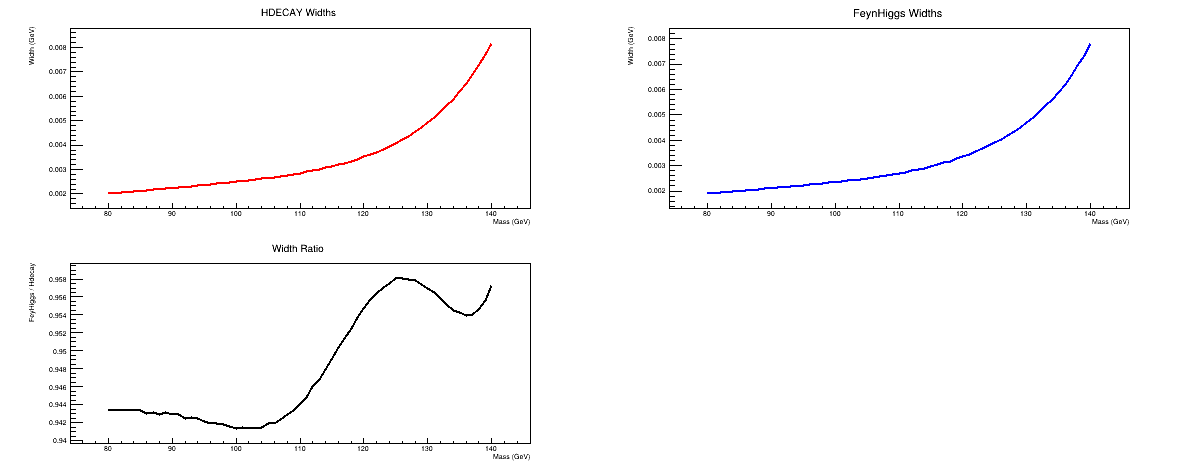
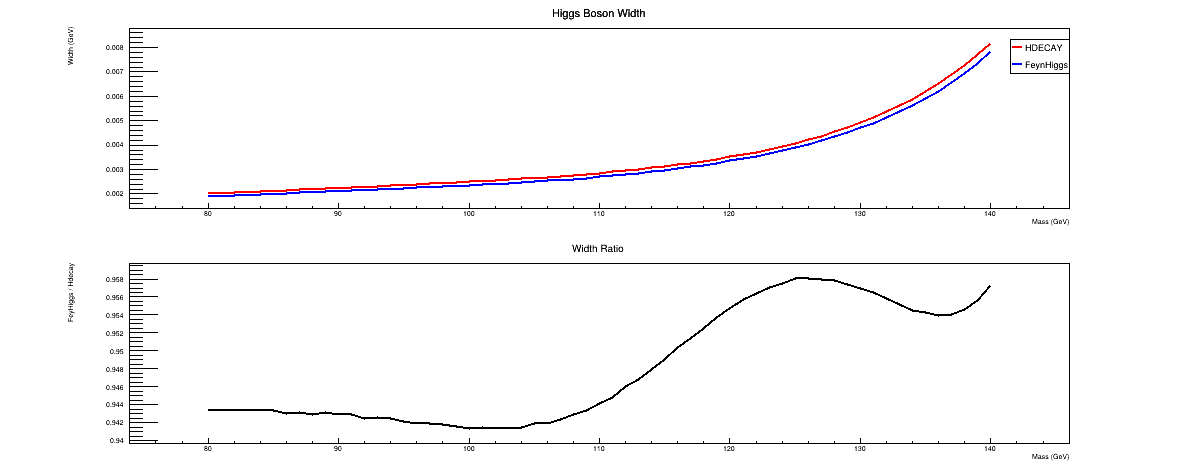
fix the plot

diff --git a/Solutions/Ex7-solution/2/compare-width.py b/Solutions/Ex7-solution/2/compare-width.py
@@ -44,11 +44,10 @@ graph_ratios = ROOT.TGraph(
 # Set graph styles
 graph_hdecay.SetLineColor(ROOT.kRed)
 graph_hdecay.SetLineWidth(2)
-graph_hdecay.SetTitle("HDECAY Widths;Mass (GeV);Width (GeV)")
+graph_hdecay.SetTitle("Higgs Boson Width;Mass (GeV);Width (GeV)")
 
 graph_feynhiggs.SetLineColor(ROOT.kBlue)
 graph_feynhiggs.SetLineWidth(2)
-graph_feynhiggs.SetTitle("FeynHiggs Widths;Mass (GeV);Width (GeV)")
 
 
 graph_ratios.SetLineWidth(2)
@@ -56,15 +55,20 @@ graph_ratios.SetTitle("Width Ratio ;Mass (GeV); FeyHiggs / Hdecay")
 
 # Create canvas with two subpads
 canvas = ROOT.TCanvas("canvas", "Width Comparison", 1200, 500)
-canvas.Divide(2, 2)
+canvas.Divide(1, 2)
 
 canvas.cd(1)
 graph_hdecay.Draw("AL")
+graph_feynhiggs.Draw("L SAME")
+
+# Create Legend
+legend = ROOT.TLegend(0.85, 0.7, 0.9, 0.85)
+legend.AddEntry(graph_hdecay, "HDECAY", "l")
+legend.AddEntry(graph_feynhiggs, "FeynHiggs", "l")
+legend.Draw()
+
 
 canvas.cd(2)
-graph_feynhiggs.Draw("AL")
-
-canvas.cd(3)
 graph_ratios.Draw("AL")
 
 # Show the plot
